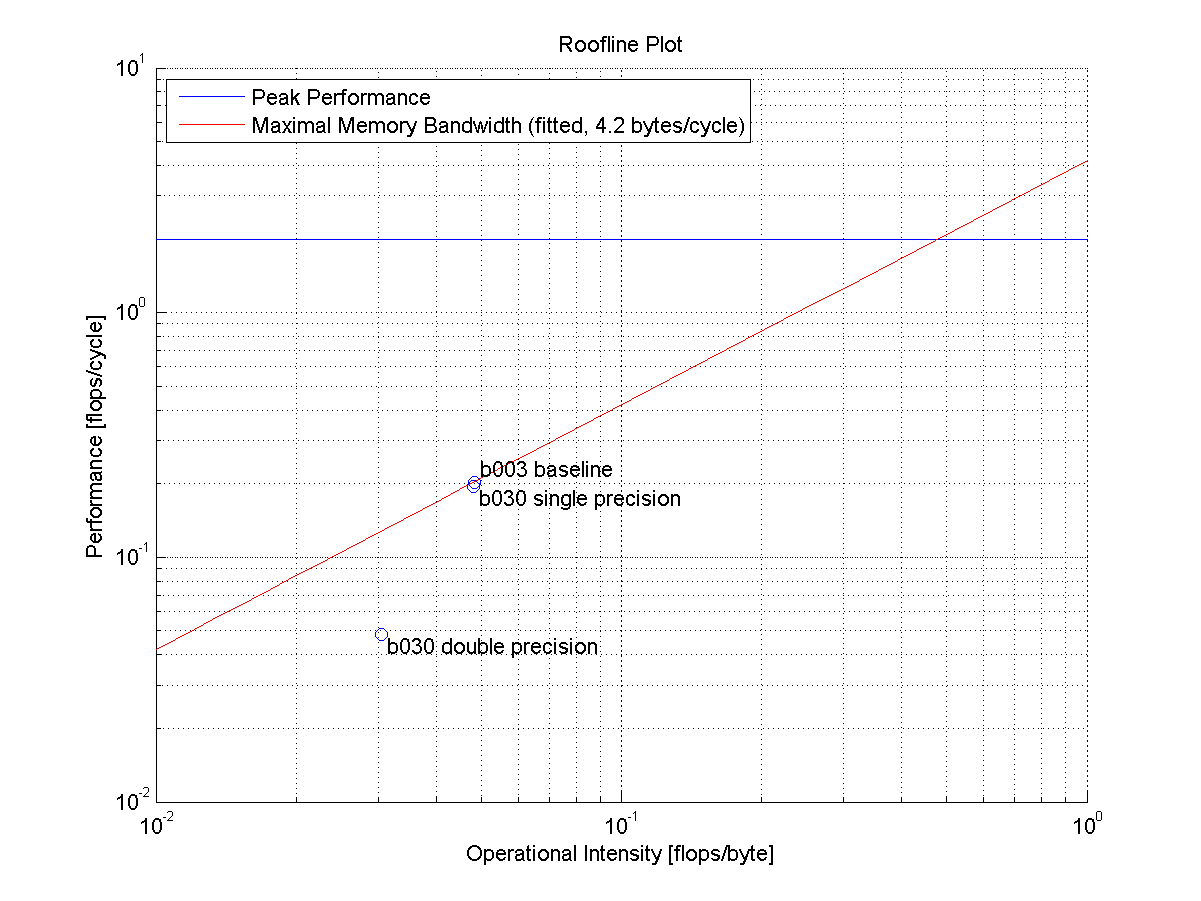
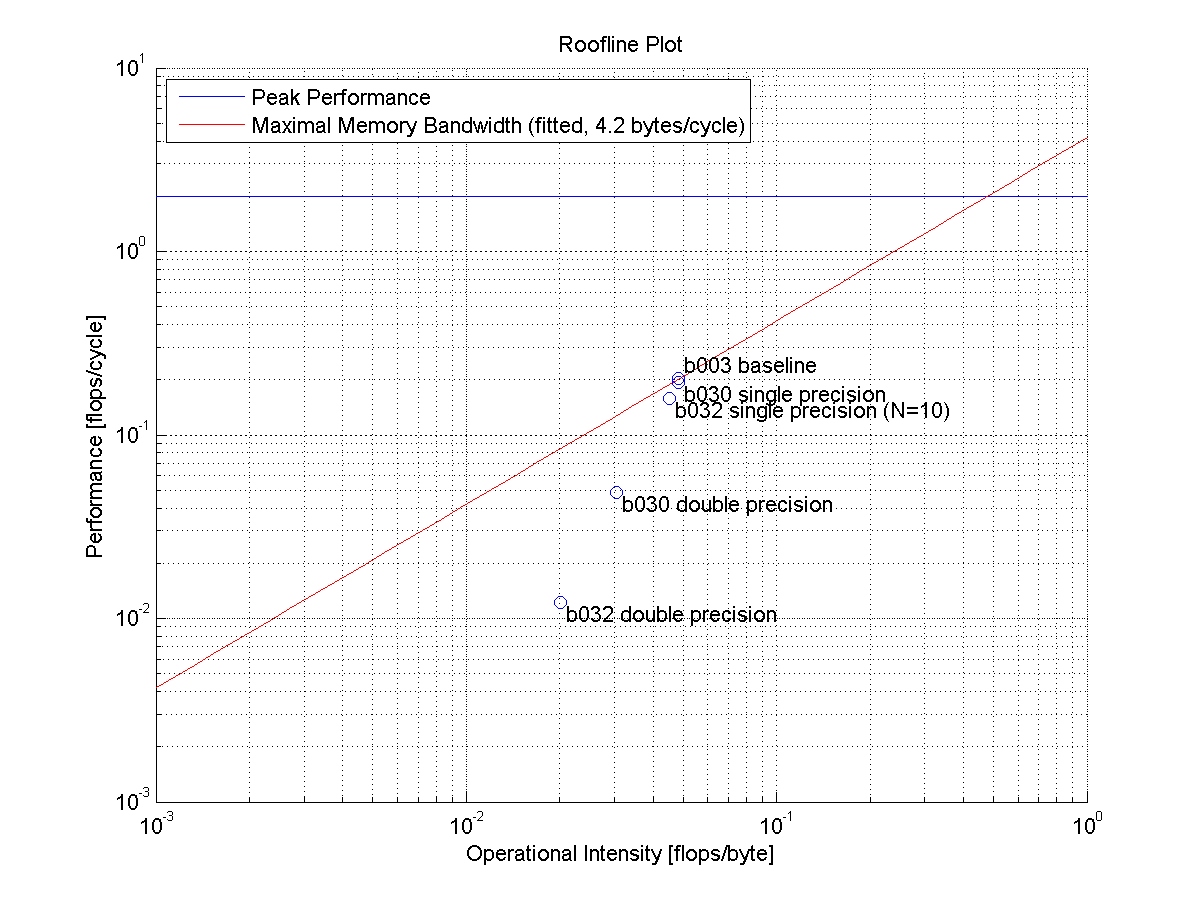
Updated roofline measurement for b032.

diff --git a/analysis/roofline_single_vs_double.m b/analysis/roofline_single_vs_double.m
@@ -1,6 +1,6 @@
 figure;
 hold on; grid on
-x = logspace(-2,0);
+x = logspace(-3,0);
 
 
 bytesCycle = 4.2;
@@ -65,6 +65,38 @@ intensity = opsCycle/bandwidthCycle;
 
 loglog(opsCycle, intensity, 'ob');
 text(opsCycle,intensity,{' b030 double precision'},'VerticalAlignment','top');
+
+%% b032 single precision repeated
+cycles = 62842094263;
+% #total flops = FP_COMP_OPS_EXE.SSE_SCALAR_DOUBLE +
+% FP_COMP_OPS_EXE.SSE_SCALAR_SINGLE + FP_COMP_OPS_EXE.X87
+flops = 1500002250 + 642000963 + 690001035;
+runtime = 16.661; % seconds
+bytes_sec = 1.071 * 1000000000;
+bytes = runtime * bytes_sec;
+
+bandwidthCycle = bytes/cycles;
+opsCycle = flops/cycles;
+intensity = opsCycle/bandwidthCycle;
+
+loglog(opsCycle, intensity, 'ob');
+text(opsCycle,intensity,{' b032 single precision (N=10)'},'VerticalAlignment','top');
+
+%% b032 double precision
+cycles = 62842094263;
+% #total flops = FP_COMP_OPS_EXE.SSE_SCALAR_DOUBLE +
+% FP_COMP_OPS_EXE.SSE_SCALAR_SINGLE + FP_COMP_OPS_EXE.X87
+flops = 942001413 + 0 + 318000477;
+runtime = 19.236; % seconds
+bytes_sec = 5.328 * 1000000000;
+bytes = runtime * bytes_sec;
+
+bandwidthCycle = bytes/cycles;
+opsCycle = flops/cycles;
+intensity = opsCycle/bandwidthCycle;
+
+loglog(opsCycle, intensity, 'ob');
+text(opsCycle,intensity,{' b032 double precision'},'VerticalAlignment','top');
 
 %%
 set(gca,'XScale','log')
